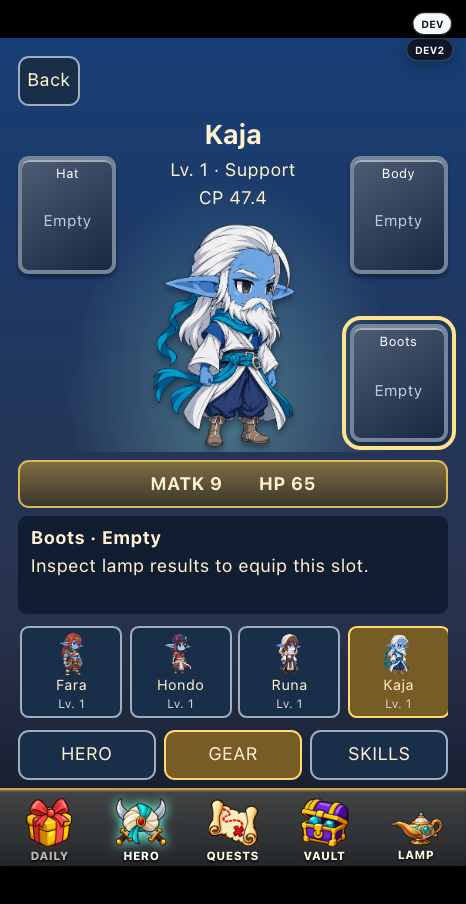
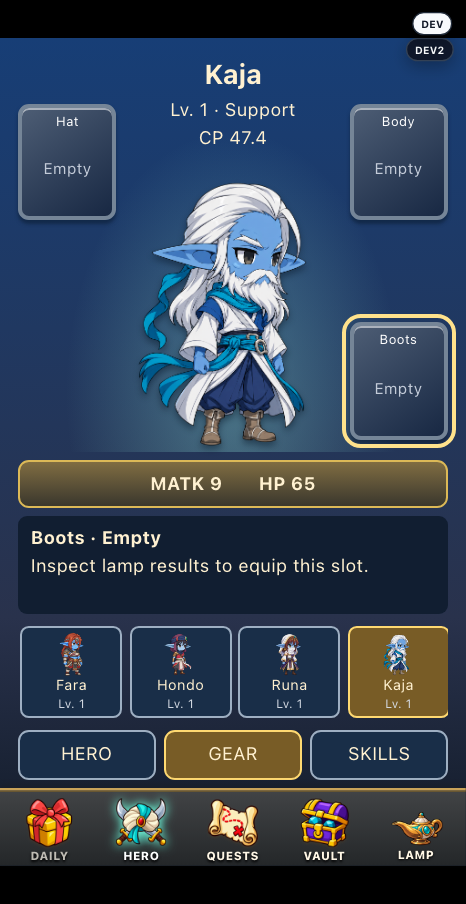
fix(hero): use main navigation without Back bd-ORKA-5af.5

diff --git a/web-runner/systems/renderHeroScreen.js b/web-runner/systems/renderHeroScreen.js
@@ -5,7 +5,7 @@ import {createHeroProgressStore} from '../src/core/heroProgression.mjs';
 import {heroArtKey} from '../state/heroArtAssets.mjs';
 let host, content, lastKey, currentTab='gear';
 export function hideHeroScreen(){if(host)host.hidden=true;}
-export function renderHeroScreen({equipmentProgress,canvas,gameState,fnContext,heroPortraitImages,onClose}) {
+export function renderHeroScreen({equipmentProgress,canvas,gameState,fnContext,heroPortraitImages}) {
  const g=fnContext.state.globals;g.HeroProgress ||= createHeroProgressStore();
  const roster=Object.values(g.HeroProgress.heroes);
  const index=((Number(gameState.selectedHero)||0)%roster.length+roster.length)%roster.length;
@@ -40,7 +40,6 @@ export function renderHeroScreen({equipmentProgress,canvas,gameState,fnContext,h
   const el=(tag,text,parent=content)=>{const n=document.createElement(tag);if(text!=null)n.textContent=text;parent.append(n);return n;};
   const button=(parent,text,action)=>{const n=el('button',text,parent);n.type='button';n.onclick=action;return n;};
   const portrait=(owner,parent)=>{const def=heroDefinition(owner);const image=heroPortraitImages[heroArtKey(owner)];if(image?.src){const img=el('img',null,parent);img.src=image.src;img.alt=def.name;}};
-  const nav=el('nav');button(nav,'Back',onClose);
   const identity=el('header');identity.className='identity';portrait(hero,identity);identity.querySelector('img')?.classList.add('hero-portrait');el('h1',d.name,identity);el('p',`Lv. ${hero.currentLevel} · ${d.role}`,identity);el('p',`CP ${computeCombatPower(hero)}`,identity);const power=el('div');power.className='power-bar';const magic=hero.stats.MAG>hero.stats.ATK;el('span',`${magic?'MATK':'ATK'} ${magic?hero.stats.MAG:hero.stats.ATK}`,power);el('span',`HP ${hero.maxHP}`,power);
   const tabs=el('nav');tabs.className='tabs';tabs.setAttribute('aria-label','Hero management');
   for(const [id,label] of [['hero','HERO'],['gear','GEAR'],['skills','SKILLS']]){const b=button(tabs,label,()=>{currentTab=id;});b.setAttribute('aria-pressed',String(currentTab===id));}

diff --git a/output/qa/hero-equip/README.md b/output/qa/hero-equip/README.md
@@ -2,10 +2,12 @@
 
 Owner requested the supplied Archero 2 composition and a Wishfire power bar that shows the higher attack stat. The Gear landing view now surrounds existing full-body art with Hat/Body/Boots cards. Inspecting a card reveals its saved name, rarity, level and bonuses. The bar compares ATK with stored MAG, displays MAG as MATK, and chooses ATK on equality. HERO retains numeric EXP; SKILLS and every saved roster record remain reachable.
 
-Run from this worktree: `node output/qa/hero-equip/verify.cjs` against the existing localhost:8035 server. The installed Playwright dependency is reused. Four phone profiles PASS for separate cards/focus rings, containment above game navigation, level labels, selected inspection, ATK equality/greater and MATK greater, EXP/skills/Back navigation, and unchanged equipment save. Seven focused hero contracts PASS. Browser module syntax check PASS via `node --input-type=module --check < web-runner/systems/renderHeroScreen.js`.
+Run from this worktree: `node output/qa/hero-equip/verify.cjs` against the existing localhost:8035 server. The installed Playwright dependency is reused. Four phone profiles PASS for separate cards/focus rings, containment above game navigation, level labels, selected inspection, ATK equality/greater and MATK greater, EXP/skills and primary VAULT/HERO navigation, and unchanged equipment save. Seven focused hero contracts PASS. Browser module syntax check PASS via `node --input-type=module --check < web-runner/systems/renderHeroScreen.js`.
 
 The fixture stages levels 1/7/12 and valid six-stat gear records with Hat MAG+3 and all other bonuses zero, solely to exercise equal attack values. It makes no progression, eligibility or timing claim. The initial malformed fixture and an early render-tick assertion failed; their raw videos remain local. Compact visual review found overlapping cards; spacing was repaired and the separation assertion added before the final PASS.
 
 Native earned profile: 835×1025, DPR2, Canvas CSS [129.5,0,576,1025], backing [1152,2050]. `native-earned.png` shows Fara's existing Guardian Cuirass level1, ATK8/HP83; `native-matk.png` shows Runa MATK16/HP60. These final screenshots were captured through the existing in-app Browser tab. One tab stays open. Raw finalized movie metadata is in video.json; all raw movies remain outside Git.
 
 Existing source-owner mismatch and duplicate canonical/live roster records remain separate owner decisions. Tuning, slots, saved items and ownership are preserved. This lane is not Integration Ready against current main.
+
+Owner follow-up removes Back because Hero belongs to main navigation. The revised four-phone guard requires no Back control and leaves/reenters through VAULT/HERO; shared navigation remains the exit path.

diff --git a/web-runner/systems/AGENTS.md b/web-runner/systems/AGENTS.md
@@ -224,3 +224,5 @@
 - Hero Gear inspection displays the owned item level beside rarity. Read the existing item record; presentation must never reroll, rescale, reassign or mutate saved gear.
 
 - Hero equipment presentation uses the existing three slots around the full-body hero and reserves the bottom navigation area. Cards inspect saved items without mutation; the power bar displays the greater of ATK or MAG, labeling MAG as MATK (ties show ATK). Keep HERO/GEAR/SKILLS, numeric EXP and every supported roster record reachable.
+
+- Hero is a primary shared-navigation destination. Its screen has no Back button; use the existing main navigation to switch destinations.
